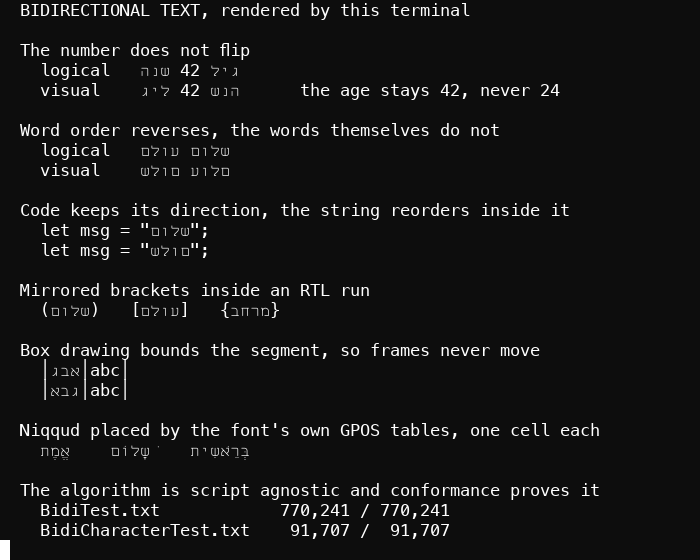
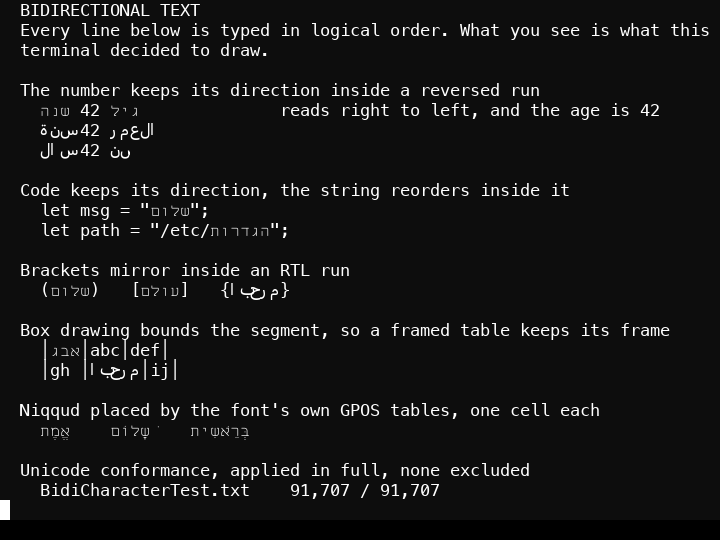
Arabic and Persian stop drawing as blank cells, and Hebrew coverage gets a real test
The font stack was Menlo, Miriam Mono CLM, Arial Hebrew. None of those carries the Arabic block,
so every Arabic and Persian codepoint resolved to nothing and drew as an empty cell, while the
bidi implementation reordered them perfectly and passed 91,707 Unicode conformance cases against
text the screen never showed. Correct algorithm, empty row, no error anywhere.

Nothing caught it because nothing looked. It was found by rendering a three-script proof sheet
and reading the image, and `arabic_and_persian_resolve_somewhere_in_the_stack` is that omission
turned into a test: it was seen to fail first, on Arabic beh and on the Persian peh and gaf that
an Arabic-only face omits, and it also refuses a resolution to .notdef, which is the failure that
looks like success.

SF Arabic leads the addition because it ships on current macOS and carries the Persian letters;
Geeza Pro backs it for older machines. Both are proportional, exactly like the Arial Hebrew
resort above them, so Arabic now sits unevenly in a fixed grid. That is stated in the README
rather than glossed: strictly better than blank, not yet good, and a monospace Arabic face is
the real fix.

The Hebrew test that existed proved ONE letter reaches a non-primary font. That is a statement
about the stack's shape, not about Hebrew being drawable, and a face carrying only the 22 base
letters would have passed it. The new test walks the classes that appear in real text: base
[…]

diff --git a/crates/render/src/font.rs b/crates/render/src/font.rs
@@ -208,6 +208,23 @@ impl FontStack {
             ("/System/Library/Fonts/Menlo.ttc".to_string(), 0),
             (format!("{home}/Library/Fonts/MiriamMonoCLM-Book.ttf"), 0),
             ("/System/Library/Fonts/ArialHB.ttc".to_string(), 0),
+            // Arabic and Persian (2026-08-07). The stack above carries NONE of the Arabic
+            // block, so every Arabic and Persian codepoint resolved to nothing and drew as a
+            // blank cell -- while the bidi implementation reordered them perfectly, passing
+            // 91,707 Unicode conformance cases against text the screen never showed. That is
+            // the worst shape this class of defect takes: correct algorithm, empty row, no
+            // error anywhere. Found by rendering a three-script proof sheet and looking at it.
+            //
+            // SF Arabic leads because it ships on current macOS and carries the Persian
+            // letters an Arabic-only face omits (peh U+067E, gaf U+06AF). Geeza Pro backs it
+            // for older machines. Both are PROPORTIONAL, exactly like Arial Hebrew above, so
+            // Arabic sits unevenly in a fixed grid -- which is the same trade this stack
+            // already accepts there, and strictly better than a blank cell.
+            //
+            // Contextual joining still cannot cross a cell boundary. That is a property of
+            // terminal grids rather than of this stack, and every terminal shares it.
+            ("/System/Library/Fonts/SFArabic.ttf".to_string(), 0),
+            ("/System/Library/Fonts/GeezaPro.ttc".to_string(), 0),
             // Braille patterns (U+2800..U+28FF): none of the fonts above carry them, so
             // dot art and braille spinners rendered as NOTHING until 2026-07-29, when the
             // RUUAH splash's ghost simply failed to appear. Apple Braille ships on every
@@ -365,6 +382,64 @@ mod tests {
             stack.resolve('\u{1F9E0}').is_some(),
             "U+1F9E0 resolves to no glyph in any stack font"
         );
+    }
+
+    /// Arabic and Persian resolve to a real glyph, in every script the bidi algorithm handles.
+    ///
+    /// The stack was `Menlo -> Miriam Mono CLM -> Arial Hebrew` and not one of them carries
+    /// Arabic, so every Arabic and Persian codepoint resolved to nothing and drew as a blank
+    /// cell. The bidi implementation was reordering them correctly the whole time, which is the
+    /// worst shape this defect could take: the algorithm passes 91,707 Unicode conformance
+    /// cases, the screen shows an empty row, and nothing anywhere reports an error.
+    ///
+    /// Found on 2026-08-07 by rendering a three-script proof sheet and looking at it, not by a
+    /// test. This is that omission turned into one.
+    #[test]
+    fn arabic_and_persian_resolve_somewhere_in_the_stack() {
+        let mut stack = FontStack::system(16.0).expect("system fonts");
+        // Arabic letter beh, and the Persian-specific peh and gaf, which a font may omit even
+        // when it carries Arabic proper. Persian is the case a naive Arabic-only face misses.
+        for (c, what) in [
+            ('\u{0628}', "Arabic beh U+0628"),
+            ('\u{067E}', "Persian peh U+067E"),
+            ('\u{06AF}', "Persian gaf U+06AF"),
+        ] {
+            let resolved = stack.resolve(c);
+            assert!(
+                resolved.is_some(),
+                "{what} resolves to no glyph in any stack font, so it draws as a blank cell"
+            );
+            // Resolution to .notdef is the failure that LOOKS like success: a hit whose glyph
+            // is 0 paints a hollow box, or on some faces nothing at all.
+            assert_ne!(resolved.unwrap().glyph, 0, "{what} resolved to .notdef");
+        }
+    }
+
+    /// Hebrew draws a real glyph for every class this terminal actually renders.
+    ///
+    /// `hebrew_falls_through_past_the_primary_font` proves ONE letter reaches a non-primary
+    /// font. That is a statement about the stack's shape, not about Hebrew being drawable: it
+    /// says nothing about final forms, about the niqqud that GPOS positions, or about the
+    /// punctuation a real line contains. A face carrying only the 22 base letters would pass it.
+    #[test]
+    fn hebrew_resolves_across_letters_finals_niqqud_and_punctuation() {
+        let mut stack = FontStack::system(16.0).expect("system fonts");
+        for (c, what) in [
+            ('\u{05D0}', "aleph, a base letter"),
+            ('\u{05EA}', "tav, the last base letter"),
+            ('\u{05DD}', "final mem, a positional form"),
+            ('\u{05E3}', "final pe"),
+            ('\u{05B8}', "qamats, a niqqud mark"),
+            ('\u{05B4}', "hiriq, a niqqud mark"),
+            ('\u{05BC}', "dagesh, which GSUB composes into the base"),
+            ('\u{05C1}', "shin dot"),
+            ('\u{05F3}', "geresh, Hebrew punctuation"),
+        ] {
+            let resolved = stack
+                .resolve(c)
+                .unwrap_or_else(|| panic!("{what} resolves to no glyph in any stack font"));
+            assert_ne!(resolved.glyph, 0, "{what} resolved to .notdef");
+        }
     }
 
     #[test]

diff --git a/README.md b/README.md
@@ -170,13 +170,24 @@ corpus untouched at 78/78, which is that separation demonstrated rather than ass
 
 ### What is not done
 
-**Only Hebrew renders today.** The algorithm is script agnostic and the conformance numbers
-above cover every bidi script, but the font stack is `Menlo -> Miriam Mono CLM -> Arial Hebrew`,
-and none of those carry Arabic. Arabic and Persian currently draw as blank cells. Adding a face
-to the stack is the fix, and it is not done.
+**Hebrew is finished. Arabic and Persian render, and do not yet sit well.**
 
-Arabic contextual joining also cannot cross cell boundaries, which is a property of terminal
-grids rather than of this implementation, and every terminal shares it.
+Until 2026-08-07 the font stack was `Menlo -> Miriam Mono CLM -> Arial Hebrew`, none of which
+carries the Arabic block, so every Arabic and Persian codepoint drew as a **blank cell** while
+the bidi algorithm reordered them perfectly. Correct algorithm, empty row, no error anywhere.
+It was found by rendering the sheet above across three scripts and looking at it, not by a test,
+and `arabic_and_persian_resolve_somewhere_in_the_stack` is that omission turned into one.
+
+SF Arabic and Geeza Pro now backstop the stack, so the glyphs appear. Both are **proportional**,
+exactly like the Arial Hebrew resort above them, so Arabic sits unevenly in a fixed grid and
+looks cramped next to Latin. That is visible in the image and it is the honest state: strictly
+better than blank, not yet good. A monospace Arabic face in the stack is the fix.
+
+Arabic contextual joining also cannot cross a cell boundary. That is a property of terminal grids
+rather than of this implementation, and every terminal shares it.
+
+Hebrew coverage is pinned across the classes that actually appear in text, not just one letter:
+base letters, final forms, niqqud, the dagesh that GSUB composes into its base, and punctuation.
 
 ## How it compares
 
@@ -185,7 +196,7 @@ checked 2026-08-07.
 
 | | bidi in the terminal | owns its VT core | checked against a reference |
 |---|---|---|---|
-| **Mind2t** | **yes**, UBA in the renderer, 91,707 Unicode conformance cases | yes | yes, 223 corpus cases |
+| **Mind2t** | **yes**, UBA in the renderer, 91,707 Unicode conformance cases, Hebrew and Arabic scripts drawn | yes | yes, 223 corpus cases |
 | kitty | **no**, by its own documentation | yes | no published gate |
 | Ghostty | no bidi surface in its C ABI | yes | it *is* the reference here |
 | WezTerm, Alacritty, iTerm2 | not claimed by this project; check their docs | yes | no published gate |
